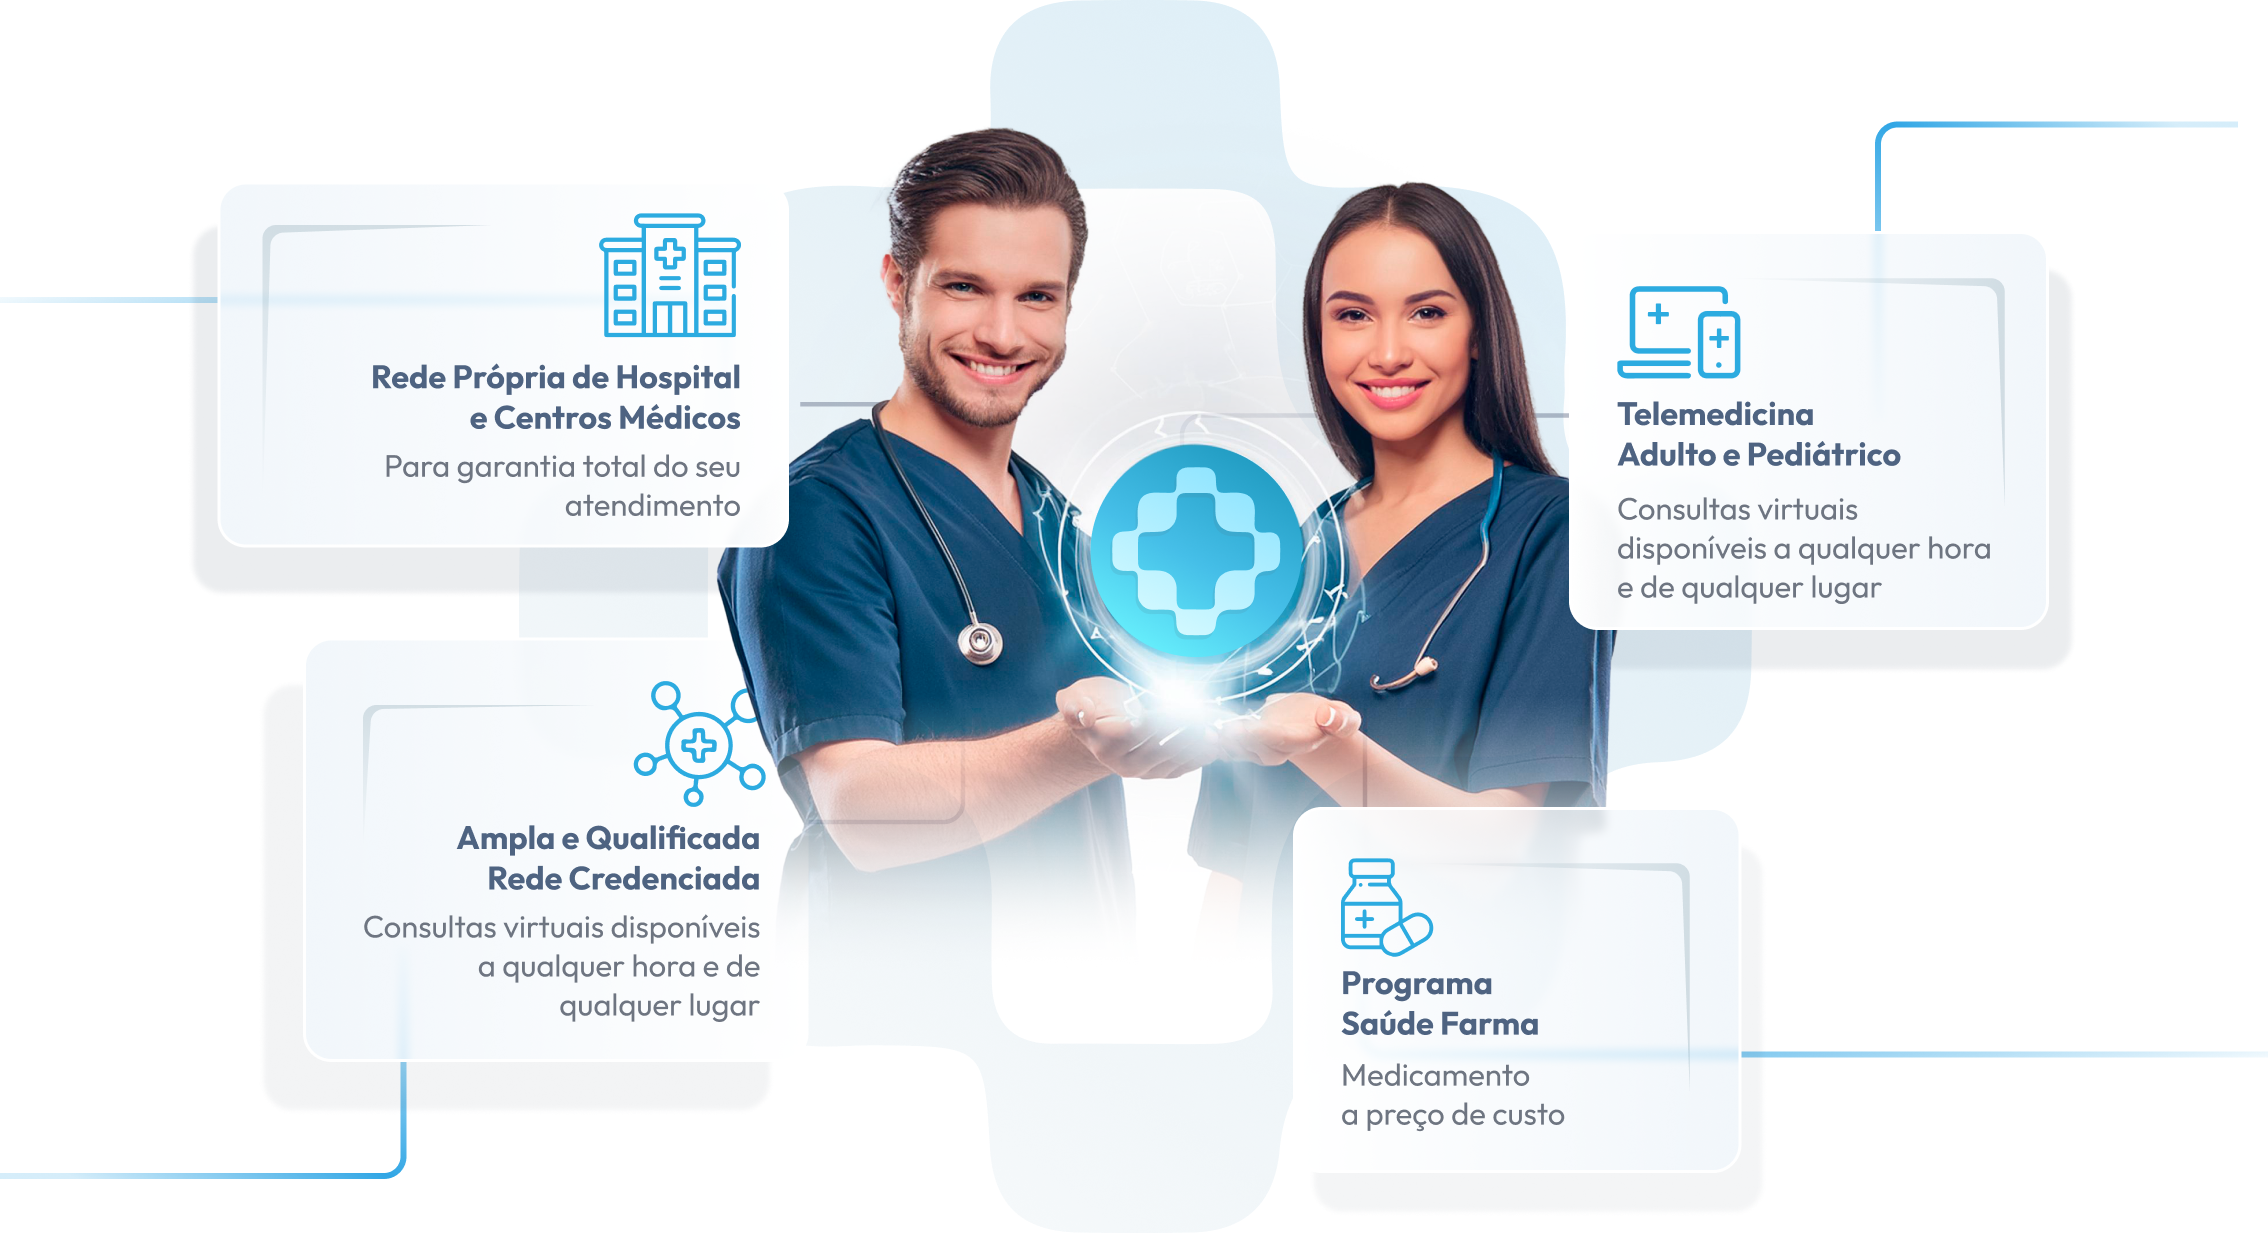
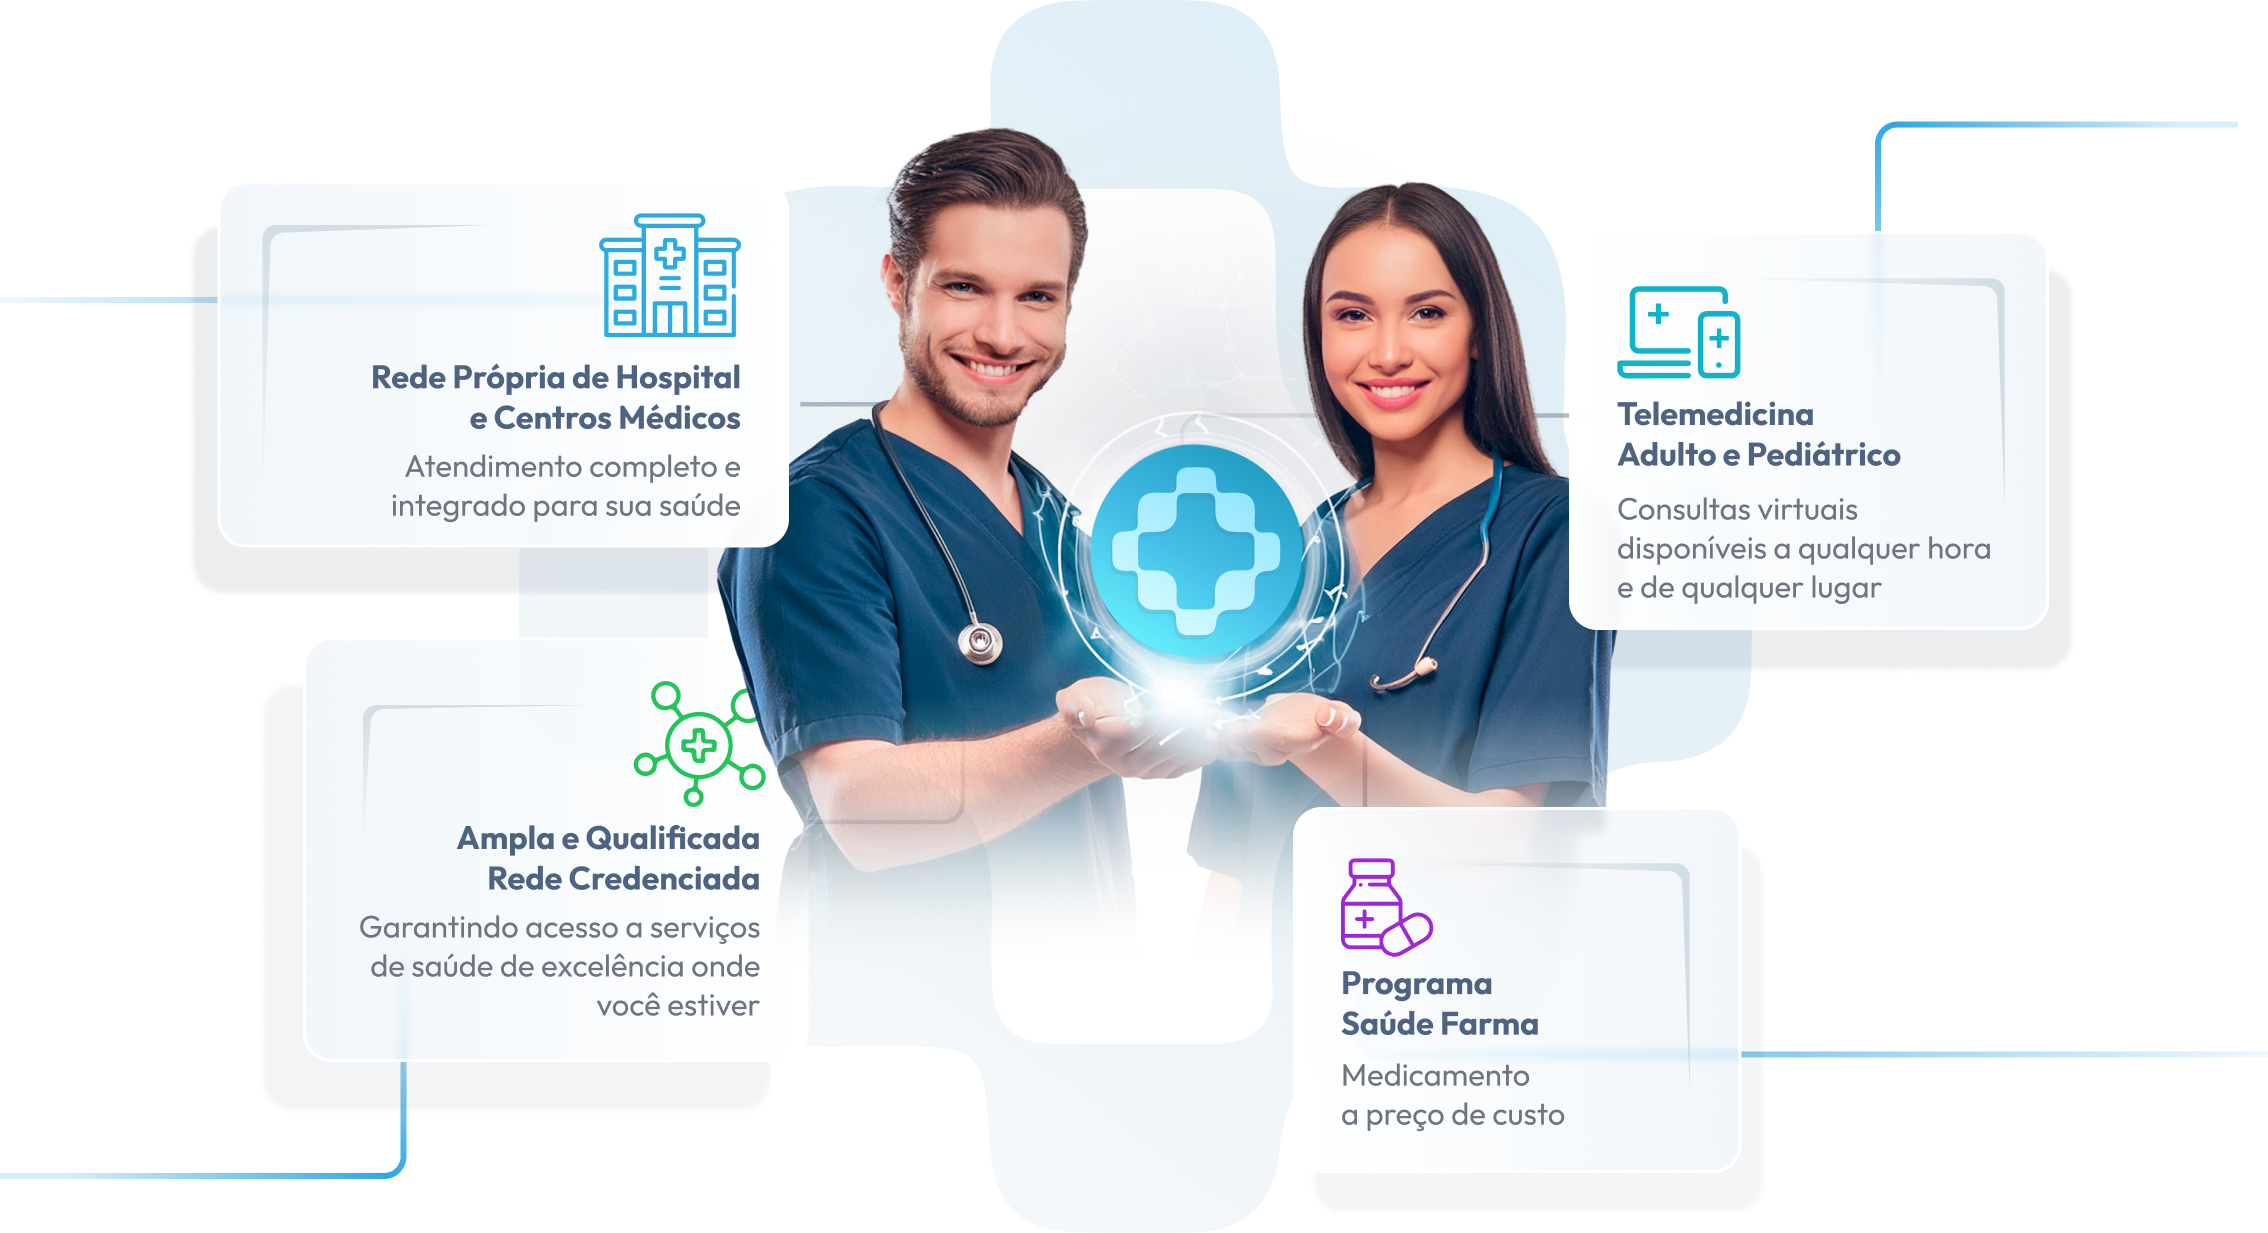
melhoria

diff --git a/src/app/page.jsx b/src/app/page.jsx
@@ -138,7 +138,7 @@ export default function Home() {
             Oplan <br /> Saúde Integral
           </h2>
           <Image
-            src="/oplan-saude-integrada-mobile.png"
+            src="/saude-integrada-mobile.png"
             width={1300}
             height={500}
             alt="Gráfico Oplan Saúde Integral"
@@ -170,7 +170,7 @@ export default function Home() {
                 Rede Própria de Hospital <br /> e Centros Médicos
               </p>
               <p className="text-start text-base mt-1">
-                Para garantia total do <br /> seu atendimento
+                Atendimento completo e <br /> integrado para sua saúde
               </p>
             </div>
             <div className="w-[90%] p-5  bg-gradient-to-tr from-white/30 to-white/20 shadow-2xl shadow-[#c1cddc] rounded-xl border-4 border-white backdrop-blur-sm hover">
@@ -229,7 +229,8 @@ export default function Home() {
                 Rede Credenciada
               </p>
               <p className="text-start text-base mt-1">
-                Acesso a excelentes profissionais e serviços de saúde.
+                Garantindo acesso a serviços de saúde de excelência onde você
+                estiver
               </p>
             </div>
             <div className="w-[90%] p-5  bg-gradient-to-tr from-white/30 to-white/20 shadow-2xl shadow-[#c1cddc] rounded-xl border-4 border-white backdrop-blur-sm hover">
@@ -421,10 +422,10 @@ Saúde Farma"
             </div>
             <div className="carousel-item">
               <div className=" h-full w-[320px] bg-gradient-to-tr from-[#4F5781] to-[#7480C4] border-4 border-[#5F70CA] rounded-2xl">
-                <div className="bg-card-costa-verde h-full w-full p-7 text-start text-white  flex flex-col justify-between">
+                <div className="bg-card-master-digital h-full w-full p-7 text-start text-white  flex flex-col justify-between">
                   <div>
                     <Image
-                      src="/icon-costa-verde.png"
+                      src="/icon-master-digital.png"
                       width={80}
                       height={80}
                       alt="Ícone Costa Verde"
@@ -433,7 +434,7 @@ Saúde Farma"
                       Plano de Saúde
                     </span>
                     <p className="text-4xl font-display leading-5 font-bold">
-                      Mater Digital
+                      Master Digital
                     </p>
                     <p className="text-base text-[#DEF1FF] mt-6 pr-6">
                       Transformando sua saúde com tecnologia avançada e um
@@ -460,10 +461,10 @@ Saúde Farma"
             </div>
             <div className="carousel-item">
               <div className=" h-full w-[320px] bg-gradient-to-tr from-[#3C5674] to-[#4075AA] border-4 border-[#4D8FD3] rounded-2xl">
-                <div className="bg-card-costa-verde h-full w-full p-7 text-start text-white  flex flex-col justify-between">
+                <div className="bg-card-oplan-serv h-full w-full p-7 text-start text-white  flex flex-col justify-between">
                   <div>
                     <Image
-                      src="/icon-costa-verde.png"
+                      src="/icon-oplan-serv.png"
                       width={80}
                       height={80}
                       alt="Ícone Costa Verde"
@@ -498,10 +499,10 @@ Saúde Farma"
             </div>
             <div className="carousel-item">
               <div className=" h-full w-[320px] bg-gradient-to-tr from-[#5D3118] to-[#A06641] border-4 border-[#B88159] rounded-2xl">
-                <div className="bg-card-costa-verde h-full w-full p-7 text-start text-white  flex flex-col justify-between">
+                <div className="bg-card-vale-do-cafe h-full w-full p-7 text-start text-white  flex flex-col justify-between">
                   <div>
                     <Image
-                      src="/icon-costa-verde.png"
+                      src="/icon-vale-do-cafe.png"
                       width={80}
                       height={80}
                       alt="Ícone Costa Verde"

diff --git a/src/app/globals.css b/src/app/globals.css
@@ -200,3 +200,24 @@ body {
   background-size: 60%;
   background-position: top right;
 }
+
+.bg-card-master-digital {
+  background-image: url("/mask-master-digital.png");
+  background-repeat: no-repeat;
+  background-size: 50%;
+  background-position: top right;
+}
+
+.bg-card-oplan-serv {
+  background-image: url("/mask-oplan-serv.png");
+  background-repeat: no-repeat;
+  background-size: 50%;
+  background-position: top right;
+}
+
+.bg-card-vale-do-cafe {
+  background-image: url("/mask-vale-cafe.png");
+  background-repeat: no-repeat;
+  background-size: 55%;
+  background-position: top right;
+}
